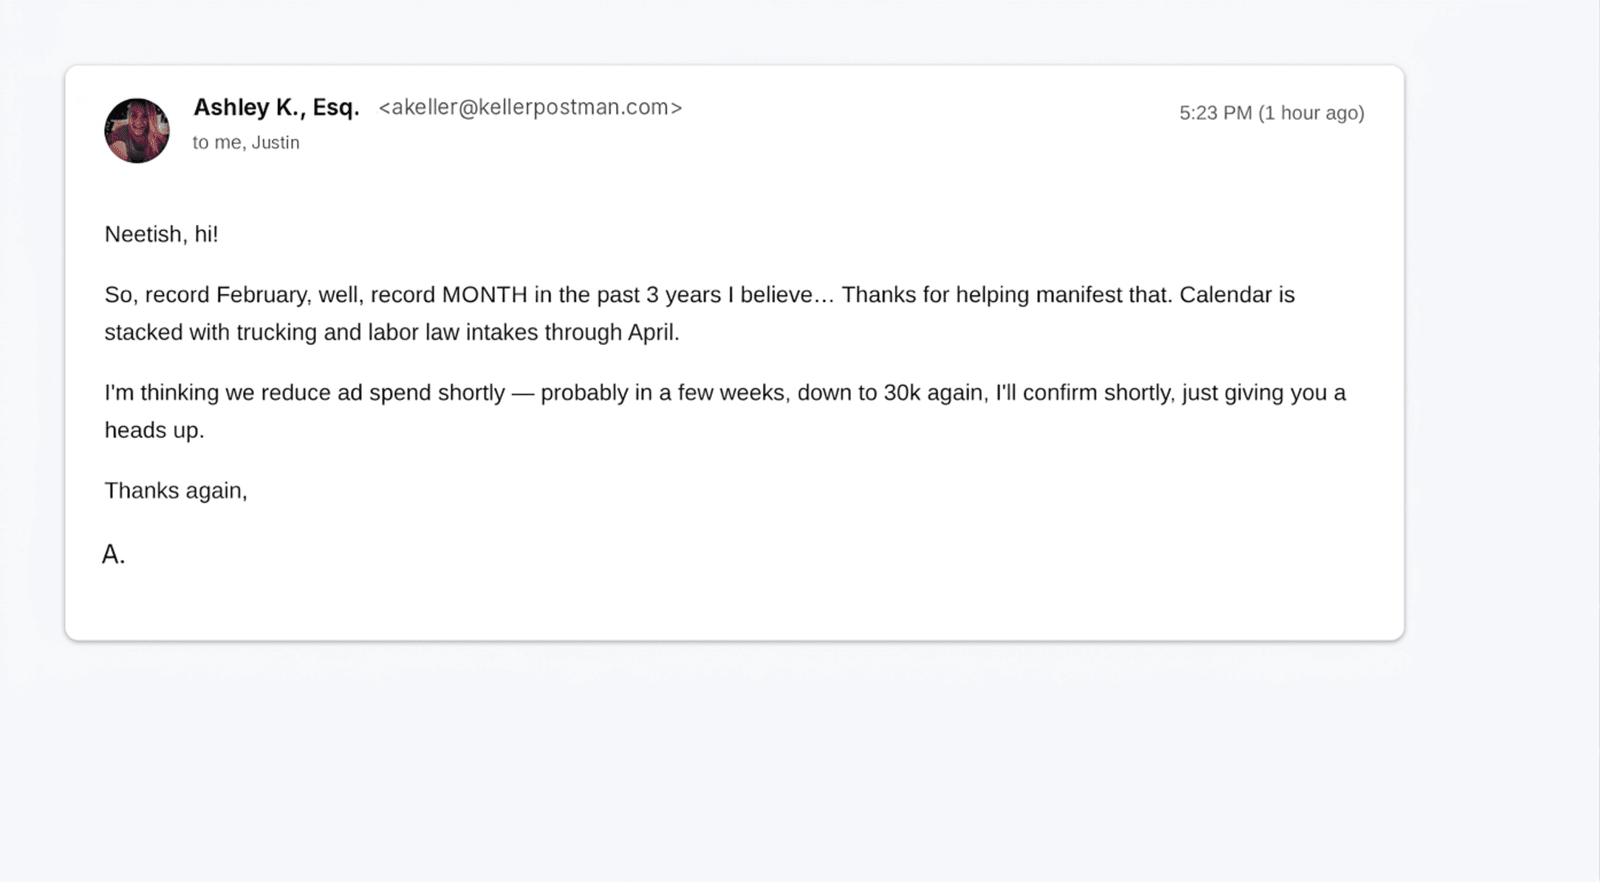
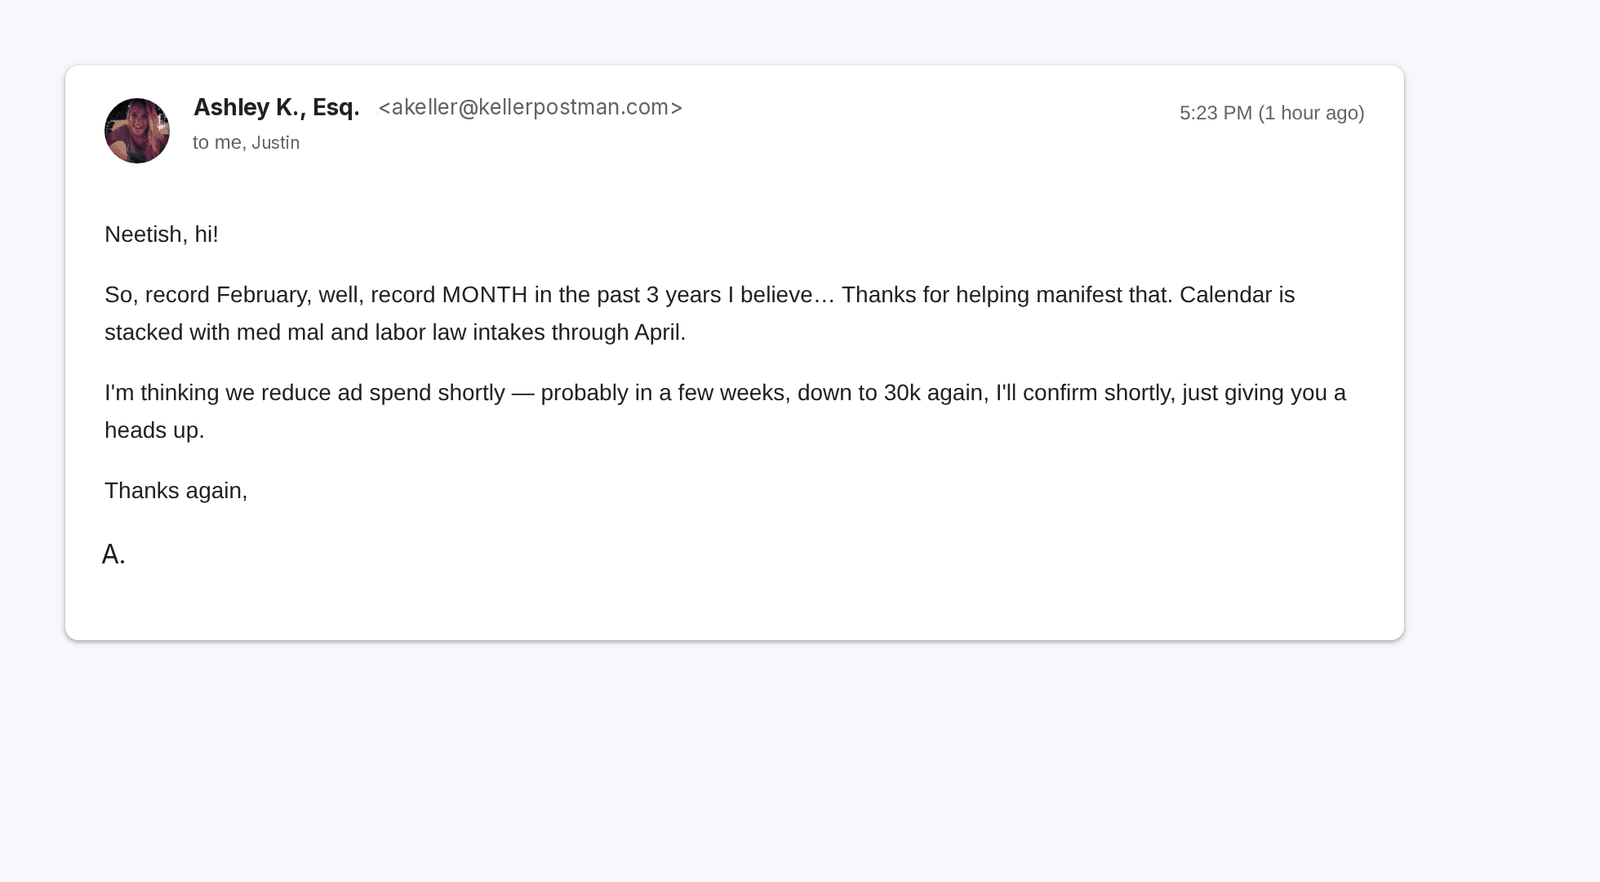
Revert "Update Ashley testimonial screenshot (med mal -> trucking); ?v=45"
This reverts commit b1456bbebf18e878797ba0edd6baa551635d2ade.

diff --git a/index.html b/index.html
@@ -1621,7 +1621,7 @@
 </head>
 <body>
 
-<div class="top-strip">Only For Experienced PI Attorneys Signing 15+ Retainers Per Month</div>
+<div class="top-strip">Only For Experienced Plaintiff Lawyers Signing 15+ Retainers Per Month</div>
 
 <template id="__bundler_thumbnail" data-bg-color="#0B1B2B">
   <svg viewBox="0 0 1200 800" xmlns="http://www.w3.org/2000/svg">
@@ -1859,6 +1859,8 @@
     </div>
   </section>
 
+  <!-- STOWED: Client Success Stories (hidden for now; unwrap the template to restore) -->
+  <template id="stowed-success-stories">
   <!-- Client Success Stories -->
   <section class="success-section" id="success-stories" aria-label="Client success stories" data-screen-label="Success Stories">
     <div class="success-inner">
@@ -1910,7 +1912,7 @@
         </figure>
 
         <figure class="success-card email">
-          <img src="assets/re-testimonial-2-record-month.png?v=45" alt="Email from Ashley K., Esq. (Keller Postman): record February — record month in the past 3 years, calendar stacked with trucking and labor law intakes through April" loading="lazy">
+          <img src="assets/re-testimonial-2-record-month.png?v=41" alt="Email from Ashley K., Esq. (Keller Postman): record February — record month in the past 3 years, calendar stacked with trucking and labor law intakes through April" loading="lazy">
           <figcaption>
             <span class="success-tag">Record month</span>
             <span class="success-cap">"Record MONTH in the past 3 years" &middot; trucking &amp; labor law calendar stacked through April</span>
@@ -1927,6 +1929,8 @@
 
     </div>
   </section>
+  </template>
+
 
   <!-- Agency comparison (movable) -->
   <section class="vs-band" id="trust-section" data-screen-label="Mechanism">

diff --git a/case-studies/index.html b/case-studies/index.html
@@ -323,6 +323,8 @@ p{text-wrap:pretty}
   <div class="tc-dots" id="tcDots" aria-hidden="true"></div>
 </section>
 
+<!-- STOWED: Client Success Stories (hidden for now; unwrap the template to restore) -->
+  <template id="stowed-success-stories">
 <section class="success-section" id="success-stories" aria-label="Client success stories">
   <div class="success-inner">
     <div class="eyebrow">Straight From The Inbox</div>
@@ -371,7 +373,7 @@ p{text-wrap:pretty}
           </figcaption>
         </figure>
         <figure class="success-card">
-          <img src="../assets/re-testimonial-2-record-month.png?v=45" alt="Email from Ashley K., Esq. (Keller Postman): record February — record month in the past 3 years, calendar stacked with trucking and labor law intakes through April">
+          <img src="../assets/re-testimonial-2-record-month.png?v=41" alt="Email from Ashley K., Esq. (Keller Postman): record February — record month in the past 3 years, calendar stacked with trucking and labor law intakes through April">
           <figcaption>
             <span class="success-tag">Record month</span>
             <span class="success-cap">&ldquo;Record MONTH in the past 3 years&rdquo; &middot; trucking &amp; labor law calendar stacked through April</span>
@@ -381,6 +383,9 @@ p{text-wrap:pretty}
     </div>
   </div>
 </section>
+  </template>
+
+
 
 <section class="partners" aria-label="Our partners">
   <h2 class="partners-head">Our Partners</h2>

diff --git a/retainer-engine-demo-booked.html b/retainer-engine-demo-booked.html
@@ -1898,6 +1898,8 @@
 
   </section>
 
+  <!-- STOWED: Client Success Stories (hidden for now; unwrap the template to restore) -->
+  <template id="stowed-success-stories">
   <!-- Client Success Stories -->
   <section class="success-section" id="success-stories" aria-label="Client success stories" data-screen-label="Success Stories">
     <div class="success-inner">
@@ -1949,7 +1951,7 @@
         </figure>
 
         <figure class="success-card email">
-          <img src="assets/re-testimonial-2-record-month.png?v=45" alt="Email from Ashley K., Esq. (Keller Postman): record February — record month in the past 3 years, calendar stacked with trucking and labor law intakes through April" loading="lazy">
+          <img src="assets/re-testimonial-2-record-month.png?v=41" alt="Email from Ashley K., Esq. (Keller Postman): record February — record month in the past 3 years, calendar stacked with trucking and labor law intakes through April" loading="lazy">
           <figcaption>
             <span class="success-tag">Record month</span>
             <span class="success-cap">"Record MONTH in the past 3 years" &middot; trucking &amp; labor law calendar stacked through April</span>
@@ -1959,6 +1961,7 @@
       </div>
     </div>
   </section>
+  </template>
 
   <!-- FAQ -->
   <section class="faq-section" id="faq" data-screen-label="FAQ">
